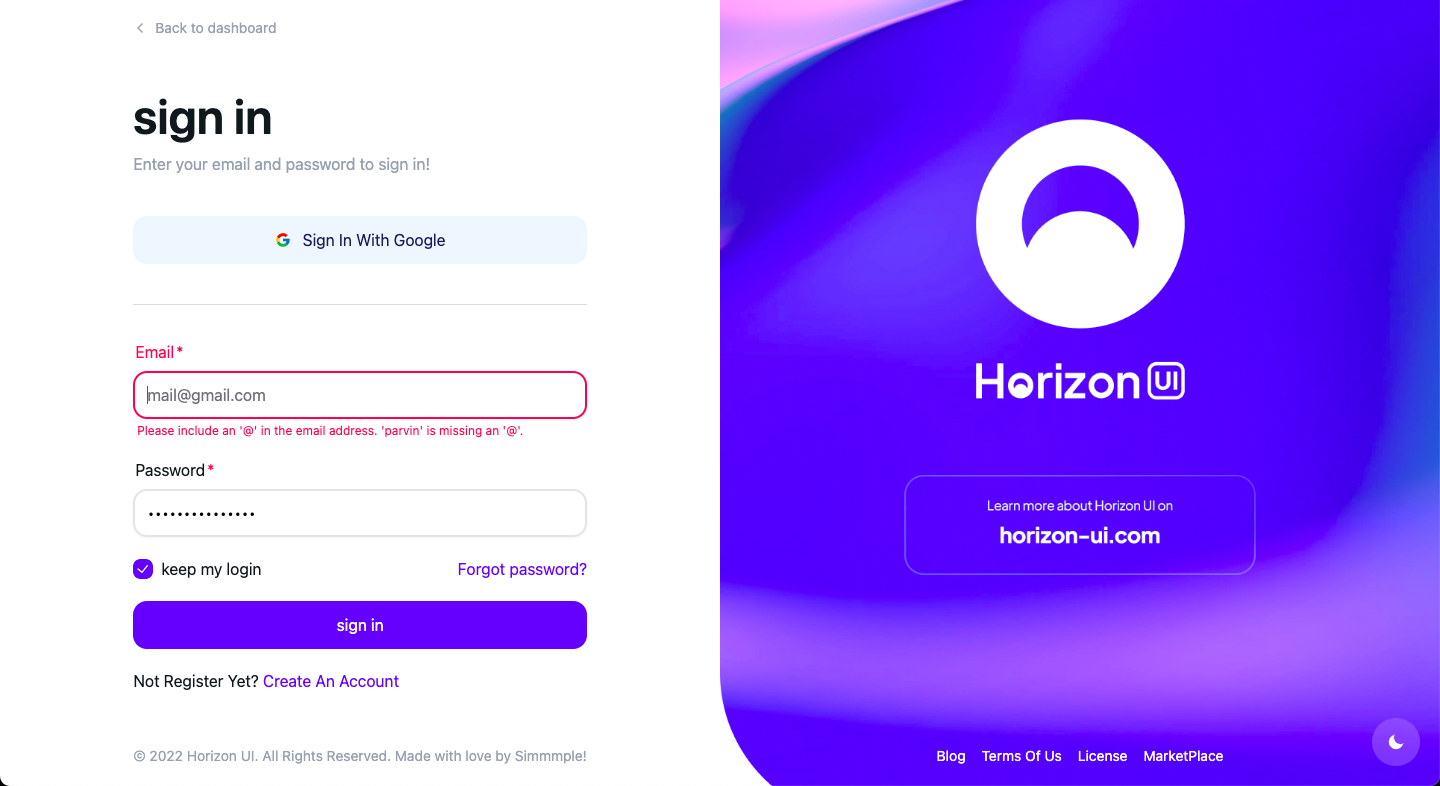
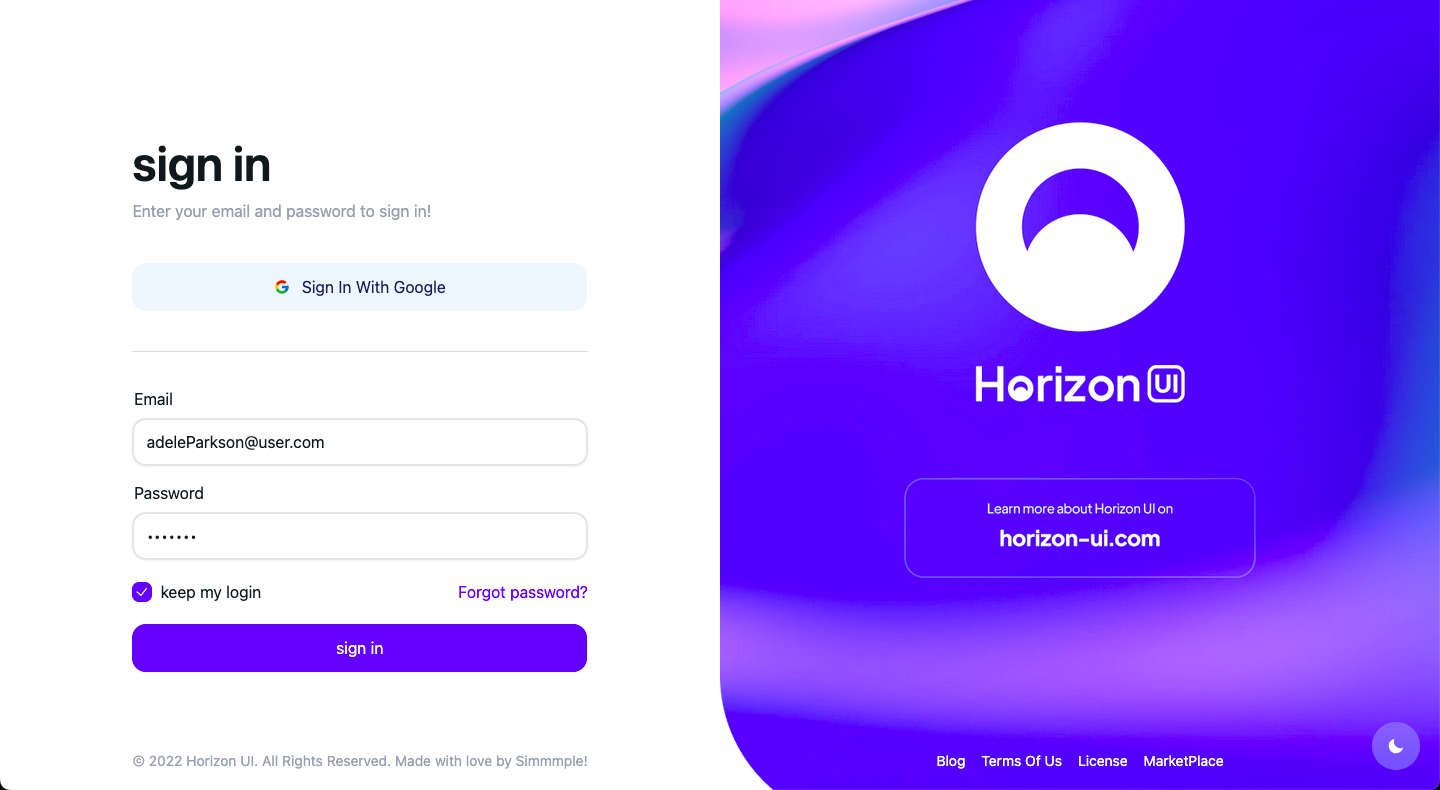
update

diff --git a/src/layouts/MainLayout.jsx b/src/layouts/MainLayout.jsx
@@ -21,7 +21,7 @@ import {
   MdPerson,
 } from "react-icons/md";
 import { RiMenuFold4Line } from "react-icons/ri";
-import { NavLink, Outlet, useLocation } from "react-router";
+import { NavLink, Outlet, useLocation, useNavigate } from "react-router";
 import ThemeButton from "../features/theme/ThemeButton";
 import getPro from "/imgs/GetPRO.svg";
 import user from "/imgs/user.png";
@@ -47,7 +47,7 @@ const sidebarItems = [
   },
   { name: "kanban", key: "kanban", to: "/kanban", icon: <MdGridView /> },
   { name: "profile", key: "profile", to: "/profile", icon: <MdPerson /> },
-  { name: "sign in", key: "sign-in", to: "/", icon: <MdLock /> },
+  { name: "sign out", key: "sign-out", icon: <MdLock />, action: "logout" },
 ];
 
 export default function MainLayout() {
@@ -55,6 +55,13 @@ export default function MainLayout() {
   const location = useLocation();
   const lastSegment = location.pathname.split("/").pop();
   const sidebarRef = useRef(null);
+  const navigate = useNavigate();
+
+  const handleLogout = () => {
+    localStorage.removeItem("userInfo");
+    setCollapsed(false);
+    navigate("/");
+  };
 
   useEffect(() => {
     function handleClickOutside(event) {
@@ -104,36 +111,45 @@ export default function MainLayout() {
                 textValue={item.name}
                 className="px-0"
               >
-                <NavLink to={item.to} onClick={() => setCollapsed(false)}>
-                  {({ isActive }) => (
-                    <div
-                      className={`flex items-center gap-x-5 py-1.5 px-5 group outline-0 ${
-                        isActive
-                          ? "text-primary dark:text-white border-e-3 border-primary"
-                          : "text-slate-400 dark:text-white"
-                      }`}
-                    >
-                      <span
-                        className={`text-2xl transition-all duration-200 ${
-                          isActive
-                            ? "text-primary dark:text-white"
-                            : "text-slate-400 dark:text-white group-hover:text-primary"
-                        }`}
-                      >
-                        {item.icon}
-                      </span>
-                      <span
-                        className={`transition-all duration-200 ${
-                          isActive
-                            ? ""
-                            : "text-slate-400 dark:text-white group-hover:text-primary"
-                        }`}
-                      >
-                        {item.name}
-                      </span>
+                {item.action === "logout" ? (
+                  <NavLink onClick={handleLogout}>
+                    <div className=" capitalize flex items-center gap-x-5 py-1.5 px-5 text-slate-400 dark:text-white hover:text-primary">
+                      <span className="text-2xl">{item.icon}</span>
+                      <span>{item.name}</span>
                     </div>
-                  )}
-                </NavLink>
+                  </NavLink>
+                ) : (
+                  <NavLink to={item.to} onClick={() => setCollapsed(false)}>
+                    {({ isActive }) => (
+                      <div
+                        className={`flex items-center gap-x-5 py-1.5 px-5 group outline-0 ${
+                          isActive
+                            ? "text-primary dark:text-white border-e-3 border-primary"
+                            : "text-slate-400 dark:text-white"
+                        }`}
+                      >
+                        <span
+                          className={`text-2xl transition-all duration-200 ${
+                            isActive
+                              ? "text-primary dark:text-white"
+                              : "text-slate-400 dark:text-white group-hover:text-primary"
+                          }`}
+                        >
+                          {item.icon}
+                        </span>
+                        <span
+                          className={`transition-all duration-200 ${
+                            isActive
+                              ? ""
+                              : "text-slate-400 dark:text-white group-hover:text-primary"
+                          }`}
+                        >
+                          {item.name}
+                        </span>
+                      </div>
+                    )}
+                  </NavLink>
+                )}
               </ListboxItem>
             ))}
             {/* </ul> */}

diff --git a/src/pages/login/Login.jsx b/src/pages/login/Login.jsx
@@ -1,19 +1,22 @@
 import { IoChevronBackOutline } from "react-icons/io5";
 import { Link } from "react-router";
 import ThemeButton from "../../features/theme/ThemeButton";
+import { isAuthenticated } from "../../router";
 import LoginForm from "./LoginForm";
 
 export default function Login() {
   return (
     <div className="lg:h-svh flex flex-col lg:gap-y-0 gap-y-10 md:justify-between p-5 max-w-lg">
       <div className="flex items-cener justify-between">
-        <Link
-          to="/dashboard"
-          className="text-gray-400 text-sm flex items-center gap-x-2 group"
-        >
-          <IoChevronBackOutline className="group-hover:-translate-x-1 transition-transform duration-300" />
-          Back to dashboard
-        </Link>
+        {isAuthenticated() && (
+          <Link
+            to="/dashboard"
+            className="text-gray-400 text-sm flex items-center gap-x-2 group"
+          >
+            <IoChevronBackOutline className="group-hover:-translate-x-1 transition-transform duration-300" />
+            Back to dashboard
+          </Link>
+        )}
         <ThemeButton
           className={
             " hover:bg-primary lg:hidden hover:text-white transition-color duration-300 cursor-pointer  text-primary size-10 bg-secondary dark:bg-secondary dark:text-white backdrop-blur-md grid place-content-center rounded-full"

diff --git a/src/pages/login/LoginForm.jsx b/src/pages/login/LoginForm.jsx
@@ -15,7 +15,7 @@ export default function LoginForm() {
     register,
     handleSubmit,
     formState: { errors },
-  } = useForm();
+  } = useForm({defaultValues: { email: "adeleParkson@user.com", password: "abc@123" }});
 
   const loginMutation = useMutation({
     mutationFn: async ({ email, password }) => {
@@ -31,7 +31,8 @@ export default function LoginForm() {
         email: data.user.email,
         id: data.user.id,
       }));
-      toast.success(`Welcome ${data.user.email}`);
+      // toast.success(`Welcome ${data.user.email}`);
+      toast.success('Logged in successfully');
       setTimeout(() => {
         navigate("/dashboard");
       }, 1500);
@@ -106,7 +107,7 @@ export default function LoginForm() {
         <Button type="submit" size="lg" color="primary">
           sign in
         </Button>
-        <p className="capitalize gap-x-3 dark:text-gray-400">
+        {/* <p className="capitalize gap-x-3 dark:text-gray-400">
           not register yet?{" "}
           <Link
             to="register"
@@ -114,7 +115,7 @@ export default function LoginForm() {
           >
             create an account
           </Link>
-        </p>
+        </p> */}
       </form>
     </div>
   );

diff --git a/src/router.jsx b/src/router.jsx
@@ -8,7 +8,7 @@ import MarketPlace from "./pages/main/MarketPlace";
 import Profile from "./pages/main/Profile";
 import Tables from "./pages/main/Tables";
 
-const isAuthenticated = () => {
+export const isAuthenticated = () => {
   return localStorage.getItem("userInfo") !== null;
 };
 
